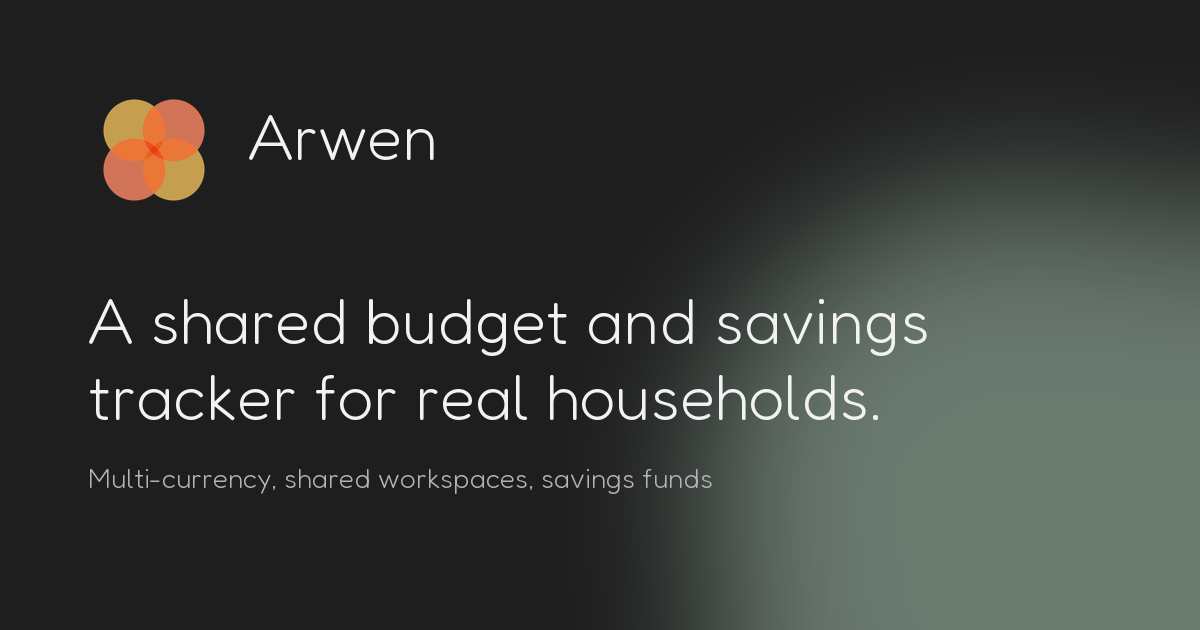
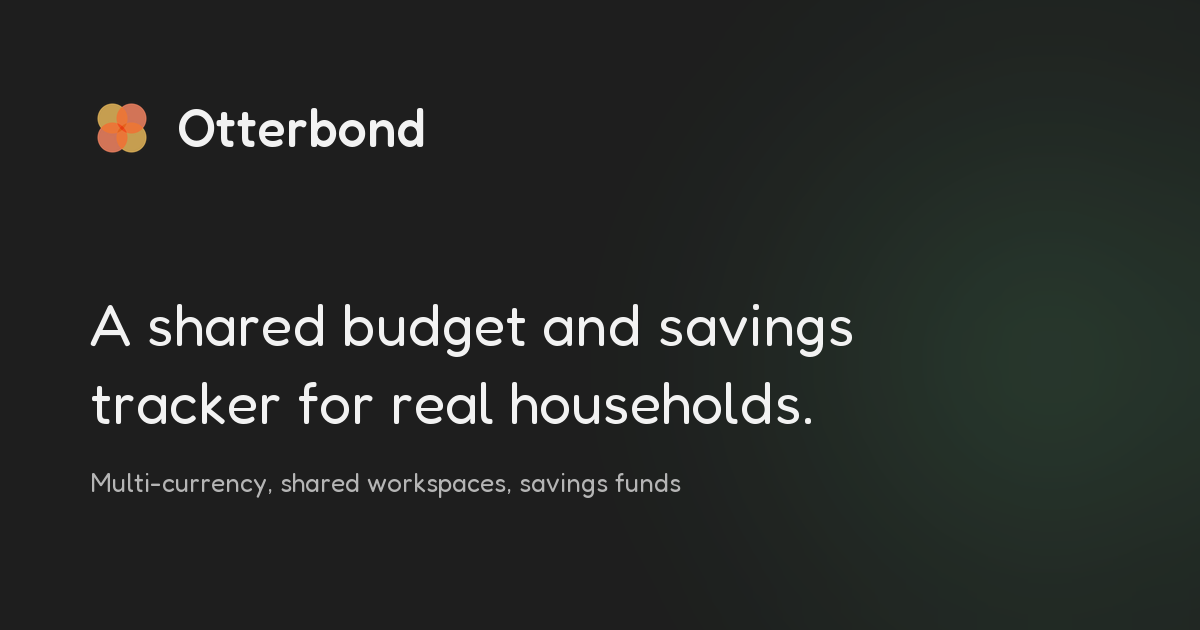
Rename product from Arwen to Otterbond
Replaces all on-page and copy references (nav, footer, meta/OG tags,
JSON-LD, legal pages, FAQ, both en and pt-pt locales) and regenerates
og-image.png, which had the old name baked into the pixels.

Claude-Session: https://claude.ai/code/session_016ace9iJ5tcd8tjiZu2QWET

diff --git a/src/i18n/ui.ts b/src/i18n/ui.ts
@@ -15,7 +15,7 @@ export const defaultLang = 'en';
 
 export const ui = {
   en: {
-    'meta.title': 'Arwen: a shared budget and savings tracker',
+    'meta.title': 'Otterbond: a shared budget and savings tracker',
     'meta.description':
       'A shared budget for couples and people who live together. Plan the month together, log expenses as they happen, and split the work of categorizing. No ads, no data-selling.',
 
@@ -31,14 +31,14 @@ export const ui = {
       'Plan the month with your partner, log expenses as they happen, and let each other pick up the categorizing. Personal and shared workspaces, side by side.',
     'hero.cta': 'Join the waitlist',
     'hero.desktopAlt':
-      "Arwen home dashboard on the web, showing total balance, this month's spending, and an emergency fund goal",
-    'hero.mobileAlt': 'Arwen home screen on mobile in dark mode, showing recent activity and quick actions',
+      "Otterbond home dashboard on the web, showing total balance, this month's spending, and an emergency fund goal",
+    'hero.mobileAlt': 'Otterbond home screen on mobile in dark mode, showing recent activity and quick actions',
     'hero.scrollHint': 'See it in action',
 
     'trustStrip.text': 'No ads. No data-selling. No bank-sync creepiness.',
 
     'problem.text':
-      "Most budgeting apps are built for one person. Your life isn't. Arwen is built for the month to be seen, planned, and managed by both of you.",
+      "Most budgeting apps are built for one person. Your life isn't. Otterbond is built for the month to be seen, planned, and managed by both of you.",
 
     'howItWorks.heading': 'How it works',
     'howItWorks.steps': [
@@ -81,7 +81,7 @@ export const ui = {
     ],
 
     'screenshotGallery.heading': "See it, don't just take our word for it",
-    'screenshotGallery.altPrefix': 'Arwen mobile screenshot',
+    'screenshotGallery.altPrefix': 'Otterbond mobile screenshot',
     'screenshotGallery.shots': [
       'Home, in dark mode',
       'Budget by category',
@@ -101,12 +101,12 @@ export const ui = {
     'faq.heading': 'Frequently asked questions',
     'faq.items': [
       {
-        question: 'Who is Arwen for?',
+        question: 'Who is Otterbond for?',
         answer:
           'Couples and people who live together who want to plan and track money as a team, not just split bills after the fact. It also works well for a group budgeting a shared trip.',
       },
       {
-        question: 'Is Arwen free?',
+        question: 'Is Otterbond free?',
         answer:
           "Yes. It's currently free to use, with no paid tier. If that ever changes, we'll say so clearly before anything you rely on becomes paid.",
       },
@@ -175,22 +175,22 @@ export const ui = {
     'footer.terms': 'Terms of Service',
     'footer.madeBy': 'Made by relense',
 
-    'notFound.title': 'Page not found, Arwen',
+    'notFound.title': 'Page not found, Otterbond',
     'notFound.description': "This page doesn't exist.",
     'notFound.heading': 'Page not found',
     'notFound.body': "The page you're looking for doesn't exist, or the link is out of date.",
     'notFound.cta': 'Back home',
 
     'legal.lastUpdated': 'Last updated',
-    'privacyPage.title': 'Privacy Policy, Arwen',
-    'privacyPage.description': 'How Arwen collects, uses, and protects your data.',
+    'privacyPage.title': 'Privacy Policy, Otterbond',
+    'privacyPage.description': 'How Otterbond collects, uses, and protects your data.',
     'privacyPage.heading': 'Privacy Policy',
-    'termsPage.title': 'Terms of Service, Arwen',
-    'termsPage.description': 'The terms that govern your use of Arwen.',
+    'termsPage.title': 'Terms of Service, Otterbond',
+    'termsPage.description': 'The terms that govern your use of Otterbond.',
     'termsPage.heading': 'Terms of Service',
   },
   'pt-pt': {
-    'meta.title': 'Arwen: um orçamento e poupanças partilhados',
+    'meta.title': 'Otterbond: um orçamento e poupanças partilhados',
     'meta.description':
       'Um orçamento partilhado para casais e pessoas que vivem juntas. Planeiem o mês em conjunto, registem despesas à medida que acontecem, e dividam o trabalho de categorizar. Sem anúncios, sem venda de dados.',
 
@@ -206,14 +206,14 @@ export const ui = {
       'Planeia o mês com o teu parceiro, regista despesas à medida que acontecem, e ajudem-se um ao outro a categorizá-las. Espaços pessoais e partilhados, lado a lado.',
     'hero.cta': 'Junta-te à lista de espera',
     'hero.desktopAlt':
-      'Painel principal da Arwen na web, mostrando o saldo total, os gastos deste mês e um objetivo de fundo de emergência',
-    'hero.mobileAlt': 'Ecrã principal da Arwen no telemóvel em modo escuro, mostrando atividade recente e ações rápidas',
+      'Painel principal da Otterbond na web, mostrando o saldo total, os gastos deste mês e um objetivo de fundo de emergência',
+    'hero.mobileAlt': 'Ecrã principal da Otterbond no telemóvel em modo escuro, mostrando atividade recente e ações rápidas',
     'hero.scrollHint': 'Vê a app em ação',
 
     'trustStrip.text': 'Sem anúncios. Sem venda de dados. Sem sincronização bancária invasiva.',
 
     'problem.text':
-      'A maioria das apps de orçamento é feita para uma pessoa. A tua vida não é. A Arwen é feita para que o mês seja visto, planeado e gerido pelos dois.',
+      'A maioria das apps de orçamento é feita para uma pessoa. A tua vida não é. A Otterbond é feita para que o mês seja visto, planeado e gerido pelos dois.',
 
     'howItWorks.heading': 'Como funciona',
     'howItWorks.steps': [
@@ -256,7 +256,7 @@ export const ui = {
     ],
 
     'screenshotGallery.heading': 'Vê por ti mesmo, não fiques só pela nossa palavra',
-    'screenshotGallery.altPrefix': 'Captura de ecrã da Arwen no telemóvel',
+    'screenshotGallery.altPrefix': 'Captura de ecrã da Otterbond no telemóvel',
     'screenshotGallery.shots': [
       'Início, em modo escuro',
       'Orçamento por categoria',
@@ -276,12 +276,12 @@ export const ui = {
     'faq.heading': 'Perguntas frequentes',
     'faq.items': [
       {
-        question: 'Para quem é a Arwen?',
+        question: 'Para quem é a Otterbond?',
         answer:
           'Para casais e pessoas que vivem juntas e querem planear e acompanhar o dinheiro em equipa, não apenas dividir contas depois de gastar. Também funciona bem para um grupo a orçamentar uma viagem em conjunto.',
       },
       {
-        question: 'A Arwen é gratuita?',
+        question: 'A Otterbond é gratuita?',
         answer:
           'Sim. Atualmente é gratuita, sem qualquer plano pago. Se isso alguma vez mudar, diremos isso claramente antes de algo que uses passar a ser pago.',
       },
@@ -350,18 +350,18 @@ export const ui = {
     'footer.terms': 'Termos de Serviço',
     'footer.madeBy': 'Feito por relense',
 
-    'notFound.title': 'Página não encontrada, Arwen',
+    'notFound.title': 'Página não encontrada, Otterbond',
     'notFound.description': 'Esta página não existe.',
     'notFound.heading': 'Página não encontrada',
     'notFound.body': 'A página que procuras não existe, ou a hiperligação está desatualizada.',
     'notFound.cta': 'Voltar ao início',
 
     'legal.lastUpdated': 'Última atualização',
-    'privacyPage.title': 'Política de Privacidade, Arwen',
-    'privacyPage.description': 'Como a Arwen recolhe, utiliza e protege os teus dados.',
+    'privacyPage.title': 'Política de Privacidade, Otterbond',
+    'privacyPage.description': 'Como a Otterbond recolhe, utiliza e protege os teus dados.',
     'privacyPage.heading': 'Política de Privacidade',
-    'termsPage.title': 'Termos de Serviço, Arwen',
-    'termsPage.description': 'Os termos que regem a tua utilização da Arwen.',
+    'termsPage.title': 'Termos de Serviço, Otterbond',
+    'termsPage.description': 'Os termos que regem a tua utilização da Otterbond.',
     'termsPage.heading': 'Termos de Serviço',
   },
 } as const;

diff --git a/.claude/CLAUDE.md b/.claude/CLAUDE.md
@@ -4,10 +4,10 @@ This file provides guidance to Claude Code (claude.ai/code) when working with co
 
 ## What this is
 
-Marketing landing page for **Arwen** (on-page product name; repo/package name stays
-`budget-app-landing`). "Arwen" is the app name; "Project" is a separate parent/umbrella brand
+Marketing landing page for **Otterbond** (on-page product name; repo/package name stays
+`budget-app-landing`). "Otterbond" is the app name; "Project" is a separate parent/umbrella brand
 meant to eventually host multiple apps, not part of this app's own name, don't reintroduce
-"Project Arwen". A shared, multi-currency budget and savings tracker. Nothing is public yet:
+"Project Otterbond". A shared, multi-currency budget and savings tracker. Nothing is public yet:
 the web app is still in staging and the mobile apps aren't published, so the page's primary CTA is
 a waitlist email signup, not a link to the app. Hosts the product's real `/privacy` and `/terms`
 pages. No GitHub/source links on the page (removed on request). No auth, no data fetching, no

diff --git a/README.md b/README.md
@@ -1,6 +1,6 @@
 # budget-app-landing
 
-Marketing landing page for **Arwen** (on-page product name; this repo keeps its original name),
+Marketing landing page for **Otterbond** (on-page product name; this repo keeps its original name),
 a shared, multi-currency budget and savings tracker. Nothing is public yet, so the page's
 primary CTA is a waitlist email signup rather than a link to the app. Also hosts the product's
 real `/privacy` and `/terms` pages.
